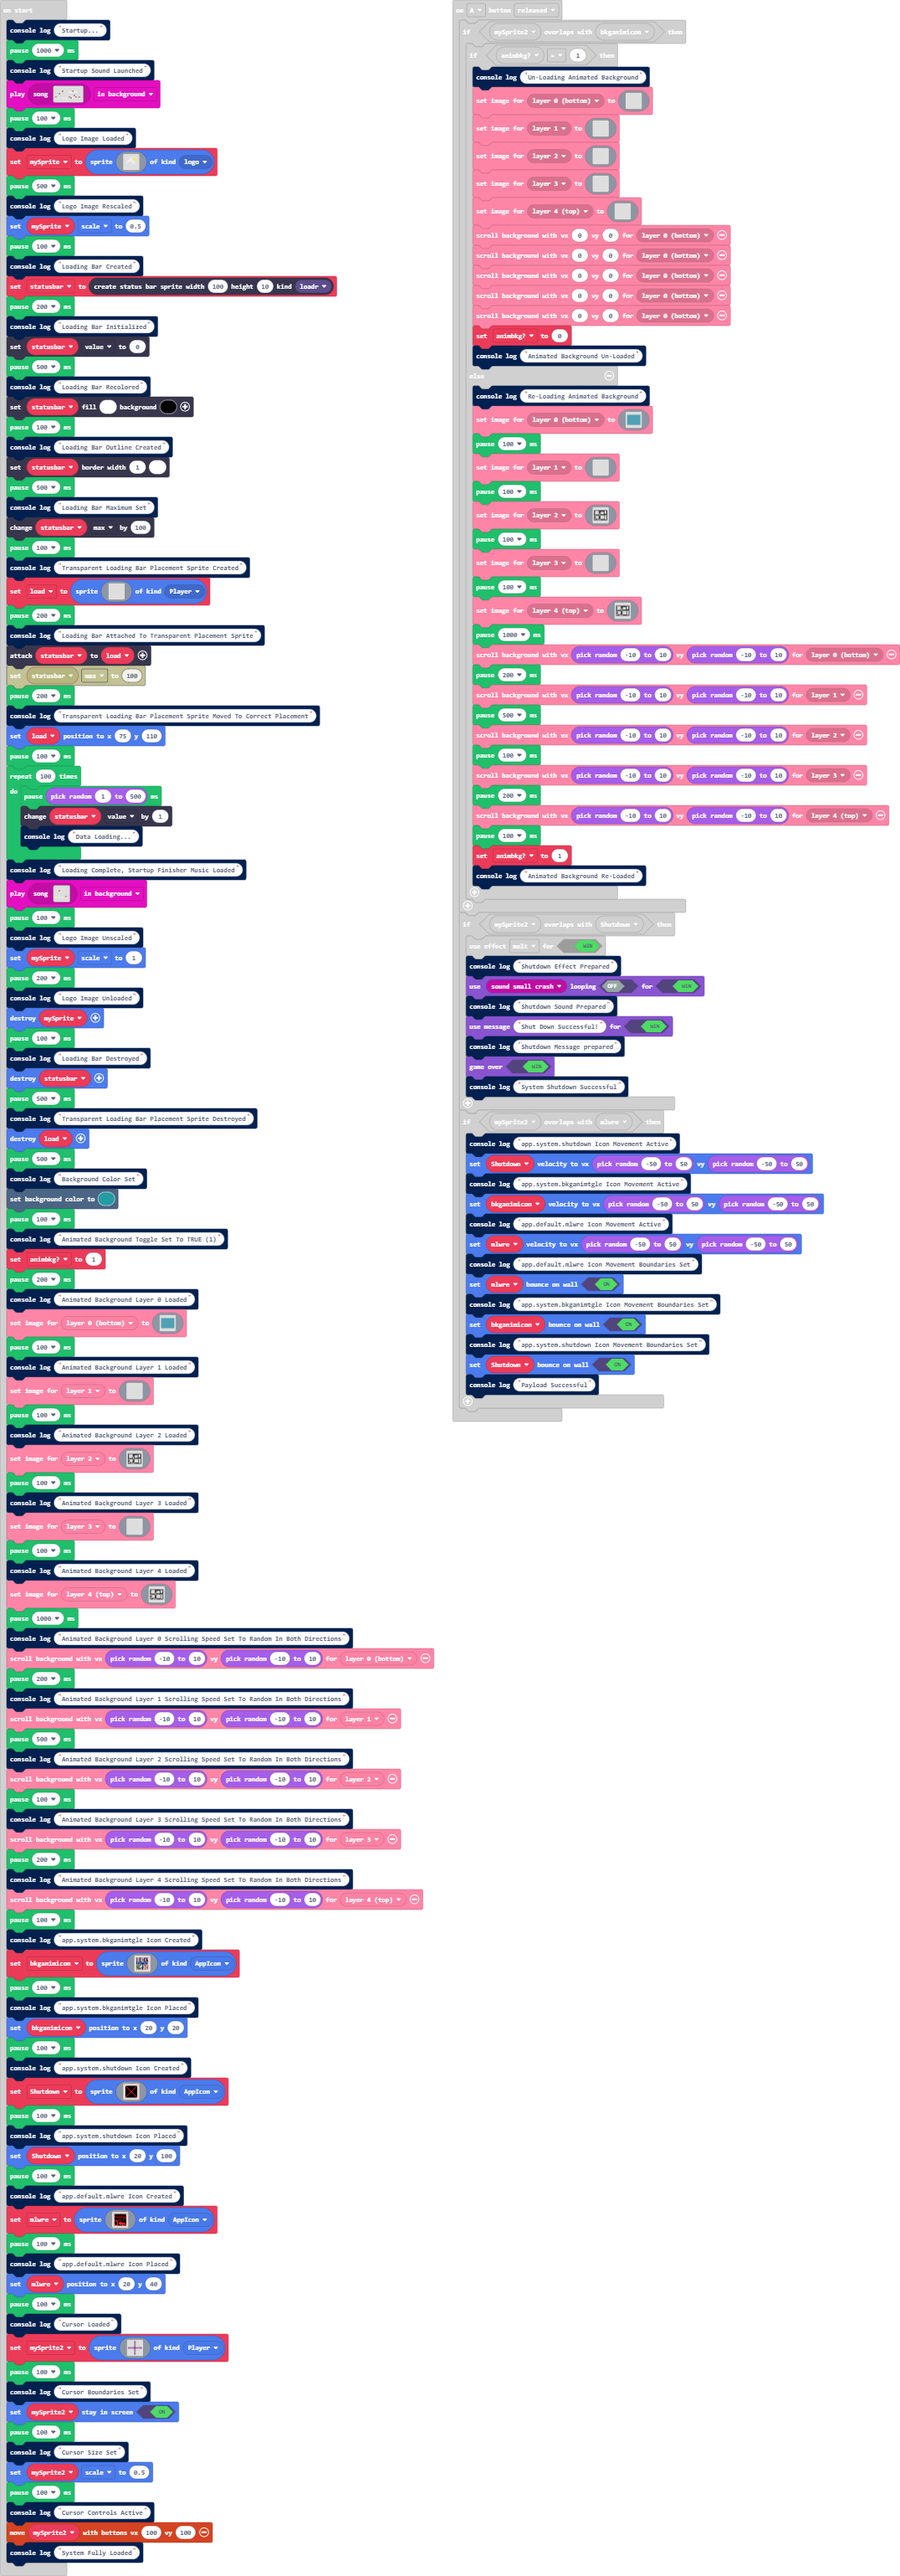
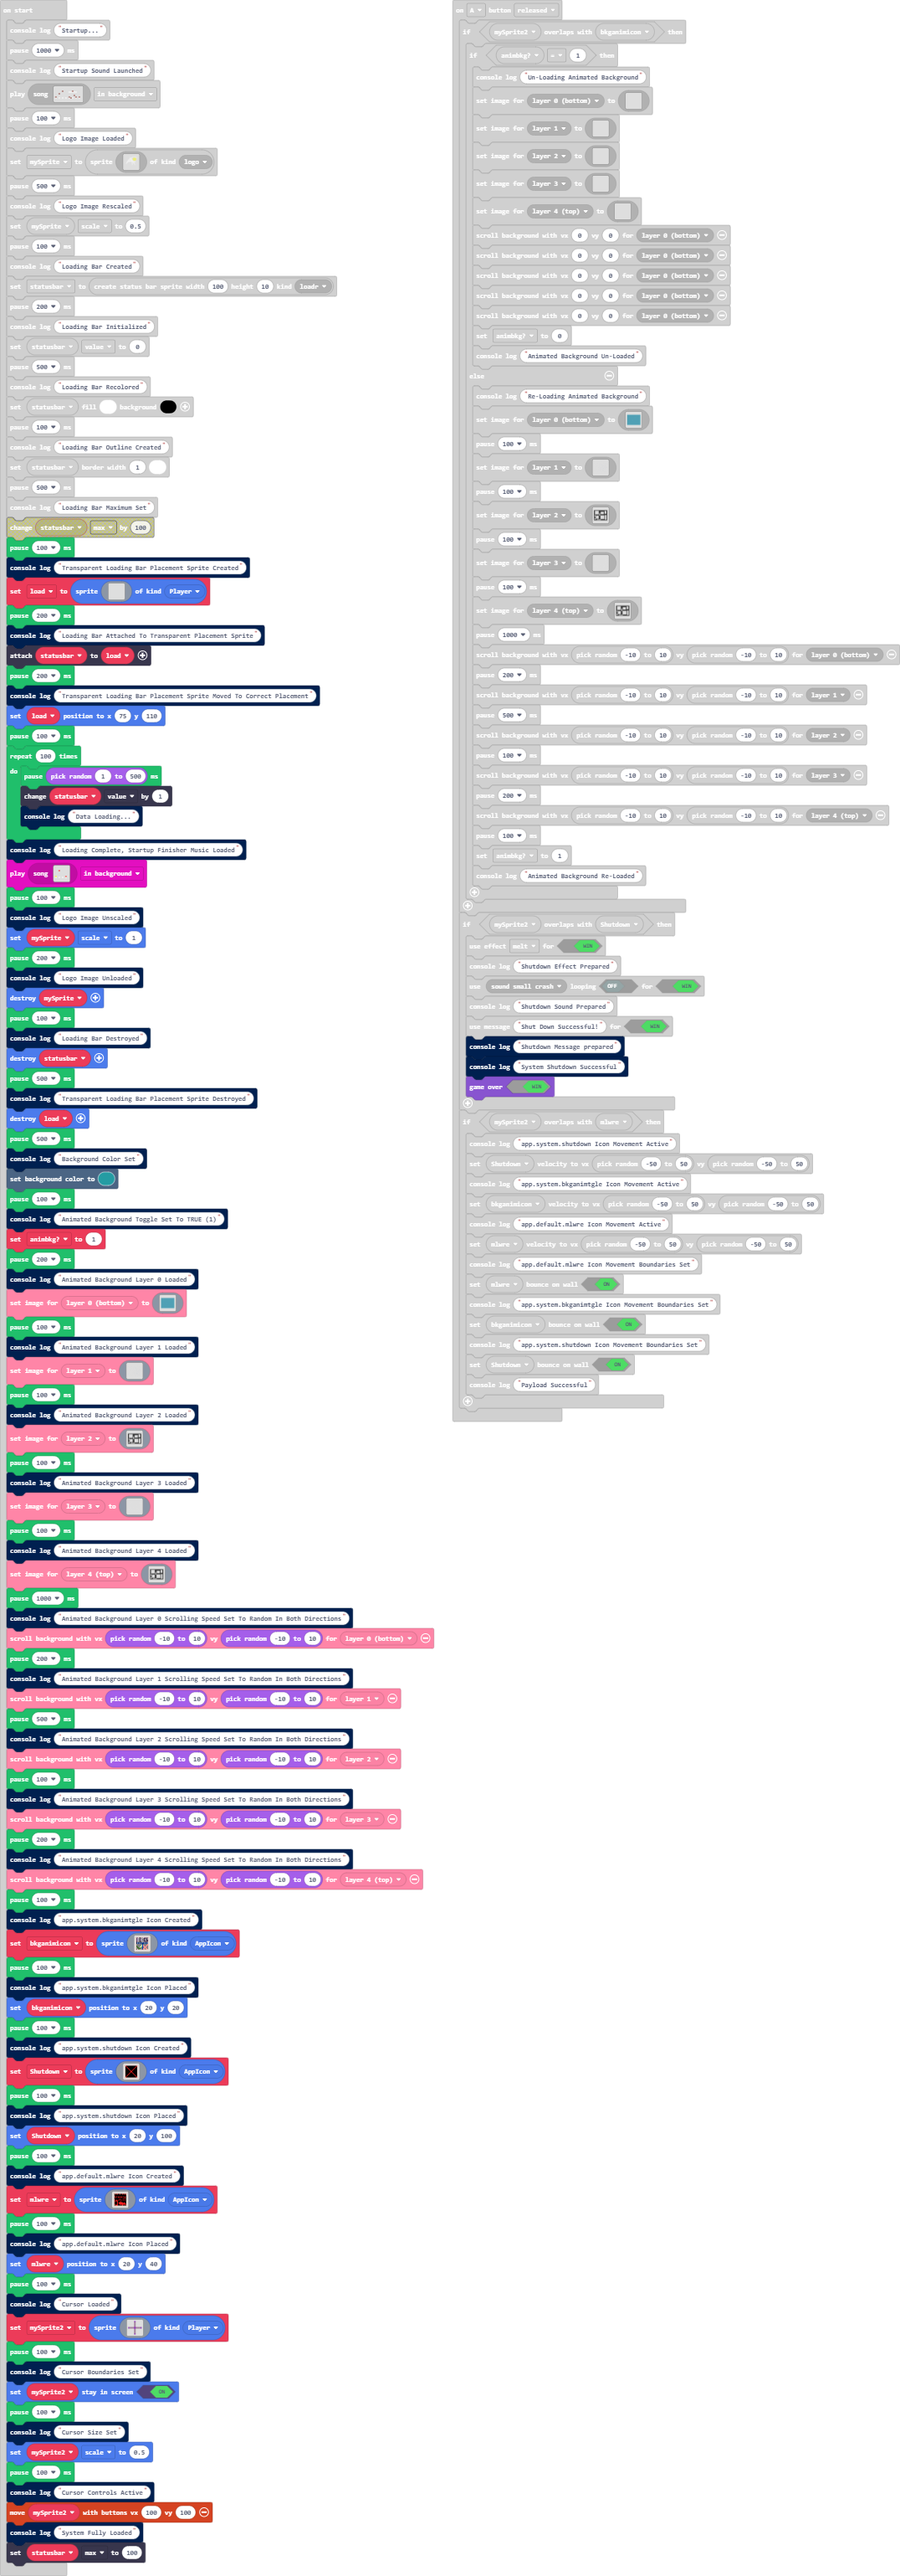
A few bug fixes :)

Changed region(s): [[0.0, 0.2184, 0.4907, 0.9984], [0.4907, 0.0, 1.0, 0.5616], [0.0, 0.0, 0.368, 0.2184]]

diff --git a/main.ts b/main.ts
@@ -659,8 +659,8 @@ controller.A.onEvent(ControllerButtonEvent.Released, function () {
         console.log("Shutdown Sound Prepared")
         game.setGameOverMessage(true, "Shut Down Successful!")
         console.log("Shutdown Message prepared")
-        game.gameOver(true)
         console.log("System Shutdown Successful")
+        game.gameOver(true)
     }
     if (mySprite2.overlapsWith(mlwre)) {
         console.log("app.system.shutdown Icon Movement Active")
@@ -707,7 +707,7 @@ console.log("Loading Bar Outline Created")
 statusbar.setBarBorder(1, 1)
 pause(500)
 console.log("Loading Bar Maximum Set")
-statusbar.max += 100
+statusbar.max = 100
 pause(100)
 console.log("Transparent Loading Bar Placement Sprite Created")
 let load = sprites.create(assets.image`Loadinthing`, SpriteKind.Player)
